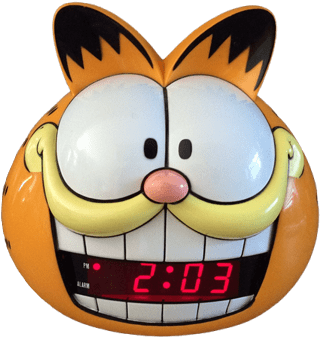
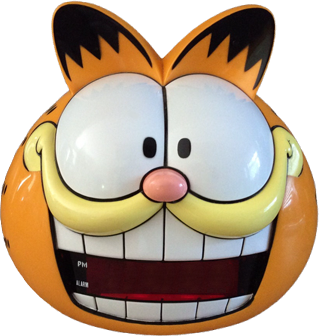
digital garfield clock

diff --git a/codecreature.net/shrines/garfield/merch/index.html b/codecreature.net/shrines/garfield/merch/index.html
@@ -13,7 +13,7 @@
 		<!-- universal base css -->
 		<link href="/codefiles/required.css?fileversion=20260410" rel="stylesheet" type="text/css"></link>
 		
-		<script>fonts.load('Garfield');</script>
+		<script>fonts.load('Garfield','DS Digital');</script>
 		
 		<!-- svg icons -->
 		<script src="/graphix/svg-icons/svg-icons.js?fileversion=20260410" id="svg-icons-js"></script>
@@ -169,7 +169,7 @@
 							</td>
 							
 							<td class="item">
-								<div id="belly-clock-2" class="wrapper analog-clock">
+								<div id="belly-clock-2" class="wrapper clock analog-clock">
 									<img src="../images/merch/clock_belly_02.png" alt=""
 										data-caption="1980s Alarm Clock<br>He plays various childrens' songs with meowing sound effects! An older version used his nose as the alarm button, but the later versions have the button on top of his head."
 										style="padding-bottom: 2%;">
@@ -213,8 +213,14 @@
 							</td>
 							
 							<td class="item">
-								<img src="../images/merch/clock_mouth.png" alt="A plastic alarm clock shaped like Garfield's head with wide eyes and a broad, toothy smile. The clock face is inside his open mouth."
-									data-caption="1991 Sunbeam Digital Alarm Clock">
+								<div id="mouth-clock" class="wrapper clock digital-clock">
+									<img src="../images/merch/clock_mouth.png" alt="A plastic alarm clock shaped like Garfield's head with wide eyes and a broad, toothy smile. The clock face is inside his open mouth."
+										data-caption="1991 Sunbeam Digital Alarm Clock">
+									<div class="numbers"><span class="hour">2</span><span class="minute">41</span></div>
+									<div class="numbers blur"><span class="hour">2</span><span class="minute">41</span></div>
+									<div class="pm"></div>
+									<div class="pm blur"></div>
+								</div>
 							</td>
 						</tr>
 						
@@ -232,7 +238,7 @@
 							</td>
 							
 							<td class="item">
-								<div id="moon-alarm-clock" class="wrapper analog-clock">
+								<div id="moon-alarm-clock" class="wrapper clock analog-clock">
 									<img src="../images/merch/clock_moon_alarm.png" alt=""
 										data-caption="Wind-up Alarm Clock by Zeon<br>clock code available <a href='/codefiles/garfield-clocks'>here</a>!">
 									<img class="clock-hands minute" src="../images/merch/clock_moon_alarm_minute.png" alt="">
@@ -288,7 +294,7 @@
 				
 				<img id="balloon-embroidery" class="wall-hanging thin-shadow" src="../images/merch/balloon_embroidery.png" alt="">
 				
-				<a href="/codefiles/garfield-clocks" class="analog-clock pendulum-clock wall-hanging">
+				<a href="/codefiles/garfield-clocks" class="clock analog-clock pendulum-clock wall-hanging">
 					<img class="body" src="../images/merch/clock_sunbeam_pendulum.png" alt="">
 					<img class="clock-hands second" src="../images/merch/clock_sunbeam_pendulum_second.png" alt="">
 					<img class="clock-hands minute" src="../images/merch/clock_sunbeam_pendulum_minute.png" alt="">
@@ -323,23 +329,44 @@
 				var minuteDeg = (minutes * 6) + (seconds * .1);
 				var hourDeg = (hours * 30) + (minutes * .5);
 				
-				var clocks = document.getElementsByClassName("analog-clock");
+				var analogClocks = document.getElementsByClassName("analog-clock");
 				
-				function rotateClocks() {
+				function rotateAnalogClocks() {
 					// update degrees
 					secDeg += 6;
 					minuteDeg += 0.1;
 					hourDeg += 0.1 / 60;
 					// move clocks
-					for (let i = 0; i < clocks.length; i++) {
-						let clock = clocks[i];
+					for (let i = 0; i < analogClocks.length; i++) {
+						let clock = analogClocks[i];
 						clock.querySelector(".second").style.rotate = secDeg + "deg";
 						clock.querySelector(".minute").style.rotate = minuteDeg + "deg";
 						clock.querySelector(".hour").style.rotate = hourDeg + "deg";
 					}
-					setTimeout(rotateClocks,1000)
+					setTimeout(rotateAnalogClocks,1000)
 				}
-				rotateClocks();
+				rotateAnalogClocks();
+				
+				var digitalClocks = document.getElementsByClassName("digital-clock");
+				function setDigitalClocks() {
+					date = new Date();
+					hours = date.getHours();
+					minutes = date.getMinutes();
+					// adjust for am/pm and midnight
+					let adjustedHours = hours > 12 ? hours - 12 : hours;
+					adjustedHours = hours == 0 ? 12 : adjustedHours;
+					// update numbers
+					for (let i = 0; i < digitalClocks.length; i++) {
+						let numbers = digitalClocks[i].getElementsByClassName("numbers");
+						for (let j = 0; j < numbers.length; j++) {
+							numbers[j].querySelector(".minute").innerHTML = minutes;
+							numbers[j].querySelector(".hour").innerHTML = adjustedHours;
+						}
+						if (hours < 12) digitalClocks[i].classList.add('am');
+					}
+					setTimeout(setDigitalClocks,1000)
+				}
+				setDigitalClocks();
 			})();
 		</script>
 	</body>

diff --git a/codecreature.net/shrines/garfield/merch/merch.css b/codecreature.net/shrines/garfield/merch/merch.css
@@ -176,7 +176,7 @@
 
 /*** CLOCKS ***/
 
-.analog-clock {
+.digital-clock, .analog-clock {
 	position: relative;
 }
 .analog-clock .clock-hands {
@@ -187,6 +187,56 @@
 .analog-clock .center {
 	transform: translateY(50%);
 }
+
+.digital-clock {
+	width: fit-content;
+}
+.digital-clock .numbers, .digital-clock .numbers-blur {
+	position: absolute;
+}
+.digital-clock .blur {
+	filter: blur(.05em);
+}
+
+#mouth-clock {
+  font-size: min(23px, 2.2vw);
+}
+#mouth-clock .numbers {
+	color: #ff043e;
+	width: 50%;
+  left: 29%;
+  bottom: 19%;
+  font-family: 'DS Digital';
+  font-weight: bold;
+	span { display: inline-block; }
+}
+#mouth-clock .hour {
+	text-align: right;
+	margin-right: .62em;
+	transform: skew(-14deg, -1deg);
+	width: 1.4em;
+}
+#mouth-clock .minute {
+	text-align: left;
+	transform: skew(-13deg, -0.5deg) scaleX(1.1);
+}
+#mouth-clock .numbers:before, #mouth-clock .numbers:after, #mouth-clock .pm {
+	content: '';
+	position: absolute;
+  background: #ff043e;
+  aspect-ratio: 1;
+  border-radius: 50%;
+}
+#mouth-clock .numbers:before, #mouth-clock .numbers:after { width: .16em; }
+#mouth-clock .numbers:before { left: 1.6em; top: 21%; }
+#mouth-clock .numbers:after { left: 1.5em; top: 59%; }
+#mouth-clock .pm {
+  left: 29%;
+  bottom: 28.3%;
+  width: 2.1%;
+  aspect-ratio: 1;
+}
+#mouth-clock.am .pm { display: none; }
 
 #belly-clock-2 .clock-hands {
 	bottom: 57.4%;

diff --git a/codecreature.net/updates/updateLog.js b/codecreature.net/updates/updateLog.js
@@ -26,6 +26,17 @@ const updateLog = [
 		`
 	},*/
 	{
+		date: new Date('2026-08-05T11:37'),
+		authors: ['emery'],
+		tags: ['garfield','minor'],
+		summary: `
+			digital <a href="/shrines/garfield/merch">garf clock</a> working
+		`,
+		details: `
+			<p>more garf clock nonsense! it's the smiling one with the numbers in his mouth</p>
+		`
+	},
+	{
 		date: new Date('2026-08-04T14:31'),
 		authors: ['emery'],
 		tags: ['paintings'],
